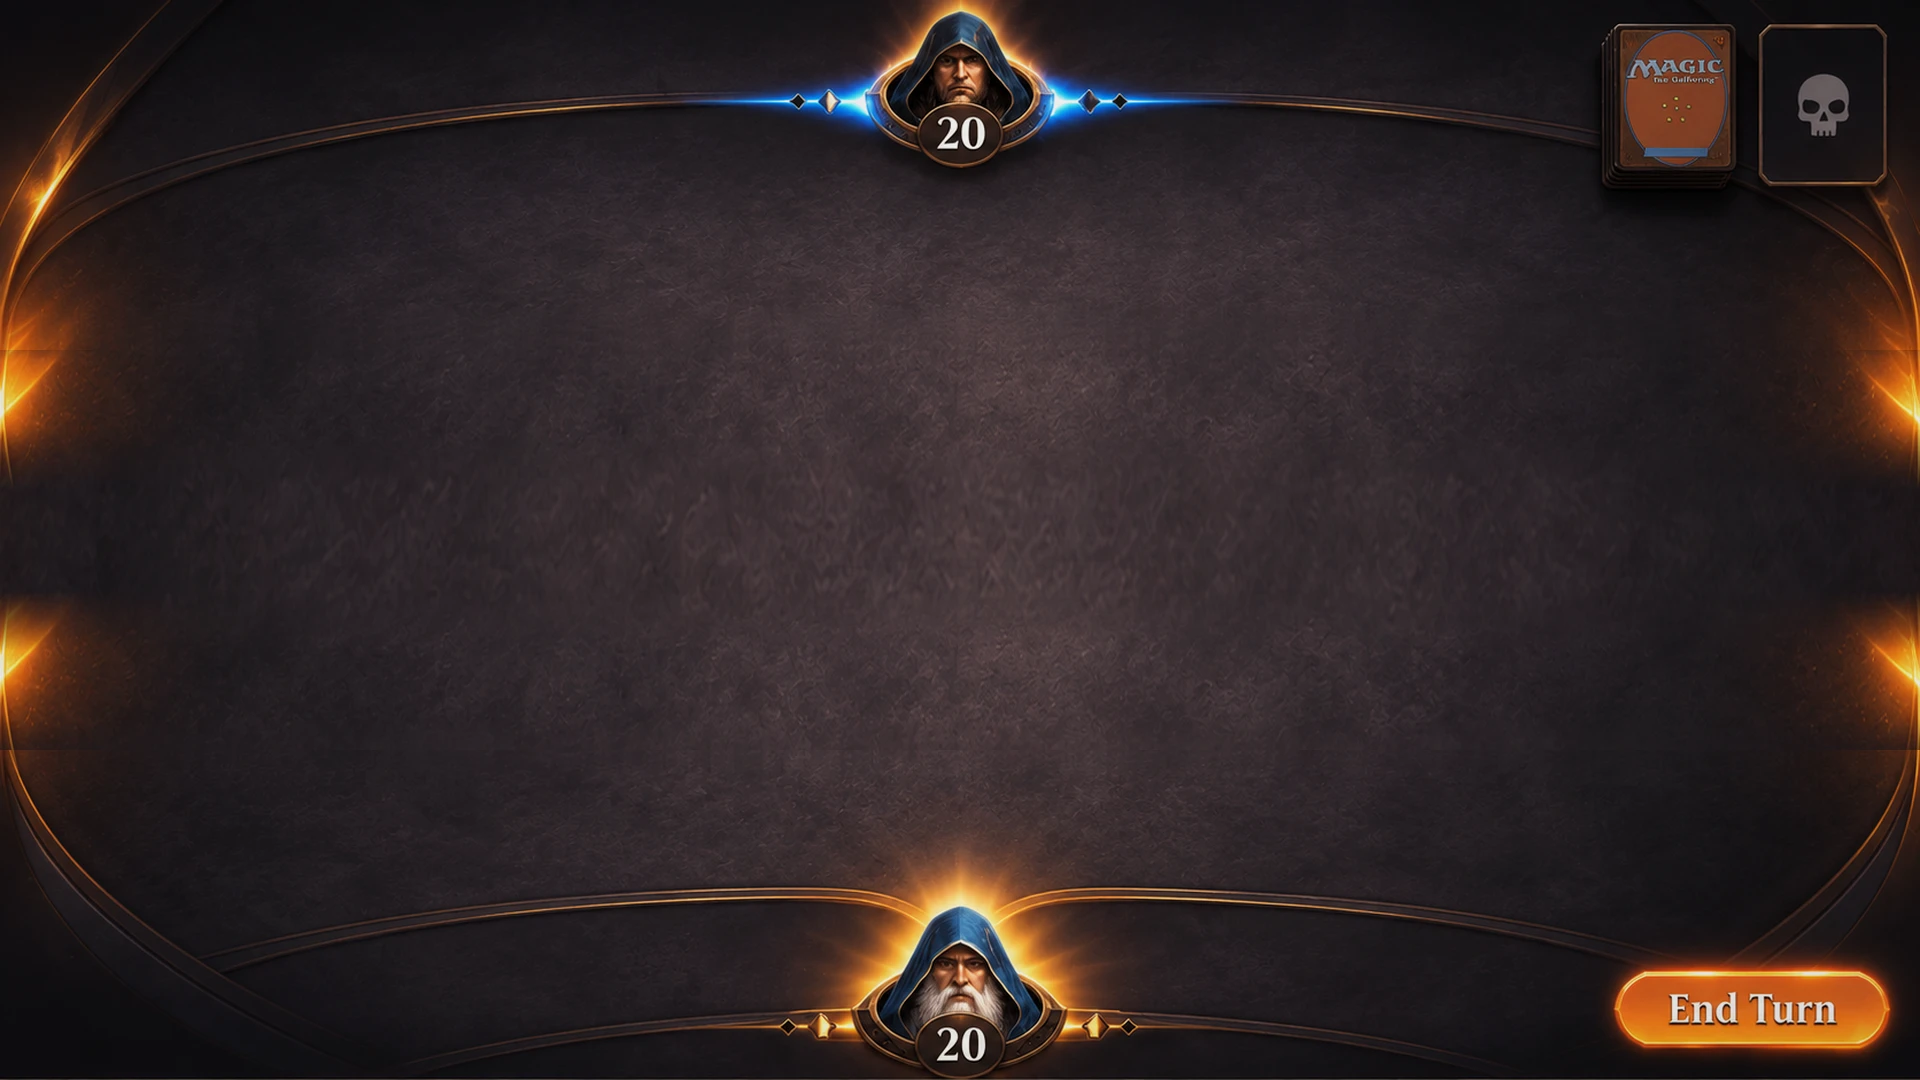
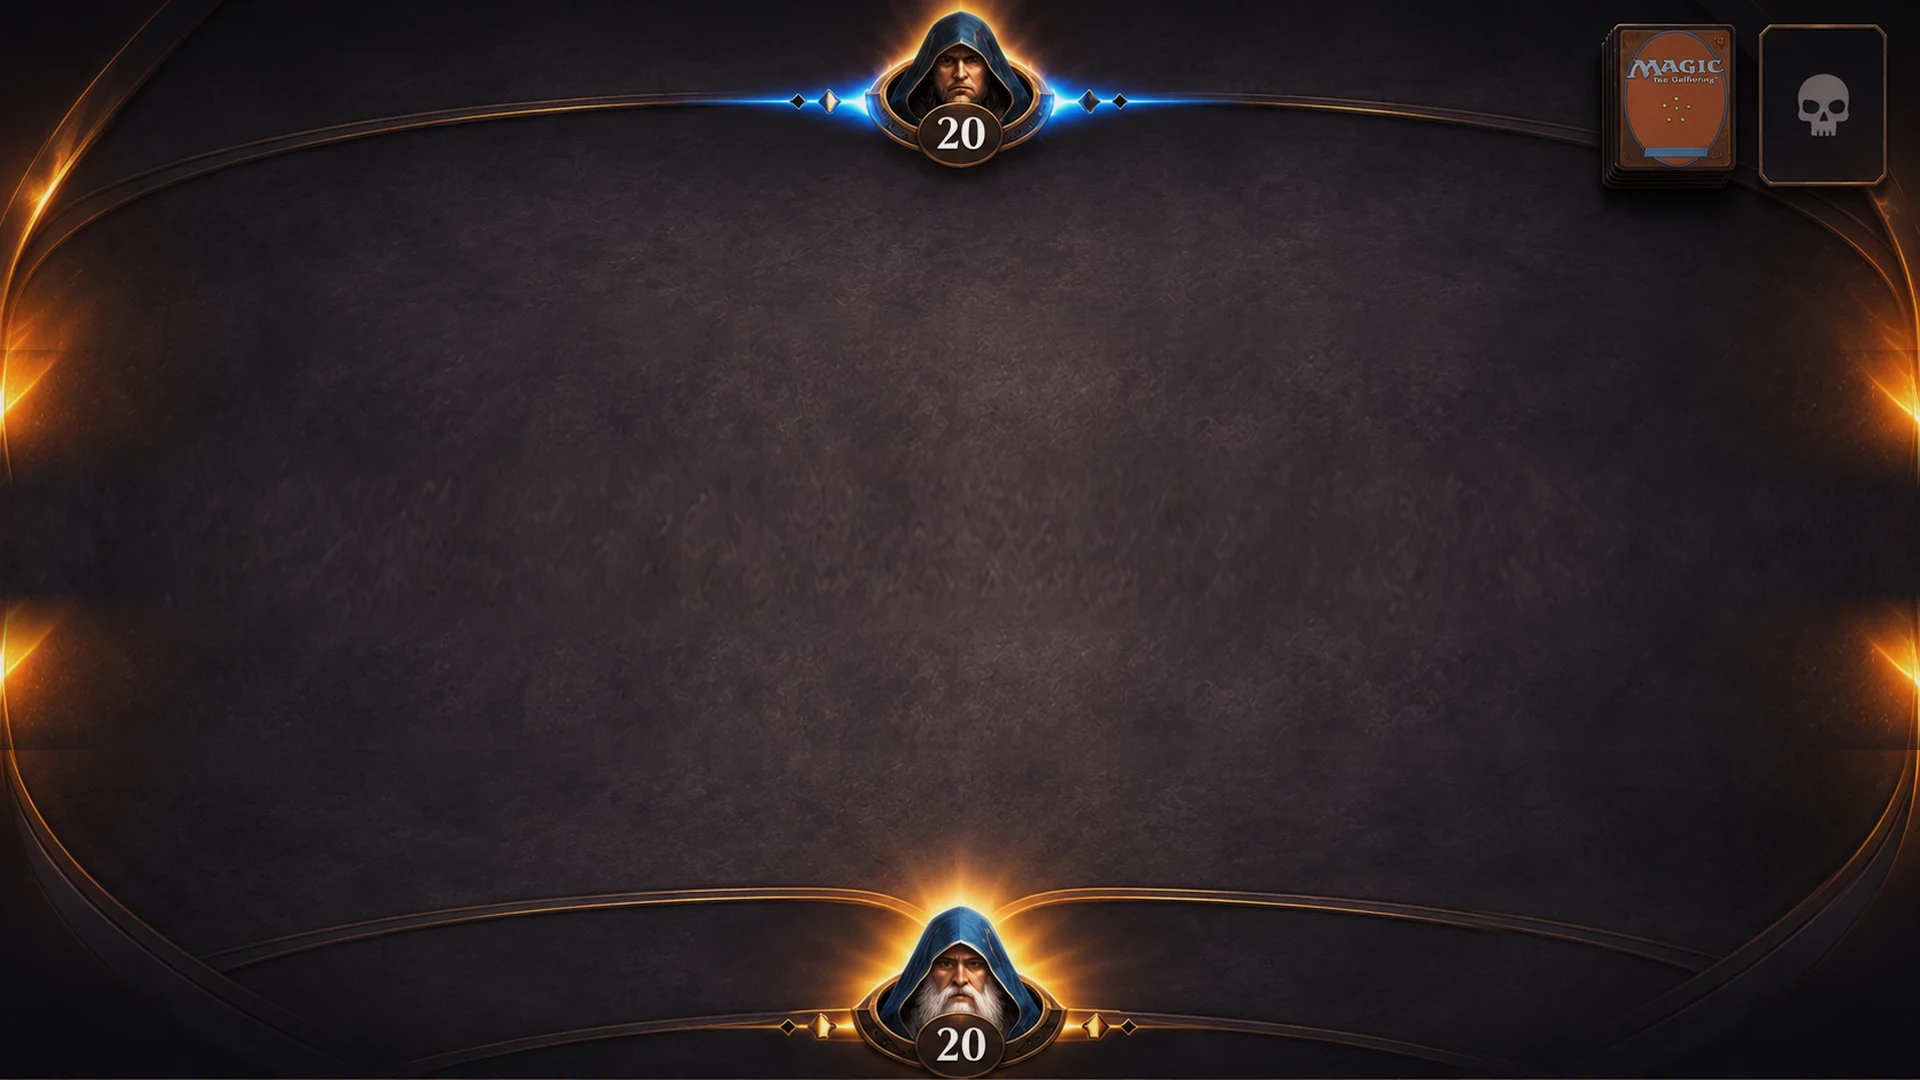
play: MTG Classic+ build 20261116022551, Arena pass on the board
- Tapped permanents tilt and dim instead of lying sideways; attackers stay readable
- Desktop board art: remove the End Turn button baked into the background,
  which showed through behind the real action button
- Desktop: my lands stop before the library pile and overlap when there are many
- Phone: phase list on a dark plate so it reads on bright playmats
- Log wording: You win, You play, You cast (was You wins, You plays)

Overrides live in css/arena.css, loaded last.

Claude-Session: https://claude.ai/code/session_01Bmq39WcKcKondK5a7UYszx

Changed region(s): [[0.8125, 0.8556, 1.0, 1.0]]

diff --git a/play-7p757dmqi9/mtg/js/ui.js b/play-7p757dmqi9/mtg/js/ui.js
@@ -1,23 +1,23 @@
-import { Game, parseCost, makeRng } from './engine.js?v=20261115163807';
-import { decideStop } from './autopass.js?v=20261115163807';
-import { aiAct } from './ai.js?v=20261115163807';
-import { EFFECTS, abilitiesOf } from './cards.js?v=20261115163807';
-import { buildDeck, buildDeckFrom, indexCards, DECK_LISTS, coverage } from './decks.js?v=20261115163807';
-import { initMenu, showApp, hideApp, costHtml, myDecks, myDeckCounts, setMyDeck } from './menu.js?v=20261115163807';
-import { askConfirm, askNumber, askPick, modal, askName, askDivide } from './dialog.js?v=20261115163807';
-import * as FX from './fx.js?v=20261115163807';
-import * as ST from './settings.js?v=20261115163807';
-import sfx from './sfx.js?v=20261115163807';
-import * as SC from './screens.js?v=20261115163807';
-import * as AI from './ai.js?v=20261115163807';
-import * as DK from './decks.js?v=20261115163807';
-import * as AN from './anim.js?v=20261115163807';
-import * as SX from './anim/status.js?v=20261115163807';
-import * as ZN from './anim/zones.js?v=20261115163807';
-import { tileHtml } from './decktile.js?v=20261115163807';
+import { Game, parseCost, makeRng } from './engine.js?v=20261116022551';
+import { decideStop } from './autopass.js?v=20261116022551';
+import { aiAct } from './ai.js?v=20261116022551';
+import { EFFECTS, abilitiesOf } from './cards.js?v=20261116022551';
+import { buildDeck, buildDeckFrom, indexCards, DECK_LISTS, coverage } from './decks.js?v=20261116022551';
+import { initMenu, showApp, hideApp, costHtml, myDecks, myDeckCounts, setMyDeck } from './menu.js?v=20261116022551';
+import { askConfirm, askNumber, askPick, modal, askName, askDivide } from './dialog.js?v=20261116022551';
+import * as FX from './fx.js?v=20261116022551';
+import * as ST from './settings.js?v=20261116022551';
+import sfx from './sfx.js?v=20261116022551';
+import * as SC from './screens.js?v=20261116022551';
+import * as AI from './ai.js?v=20261116022551';
+import * as DK from './decks.js?v=20261116022551';
+import * as AN from './anim.js?v=20261116022551';
+import * as SX from './anim/status.js?v=20261116022551';
+import * as ZN from './anim/zones.js?v=20261116022551';
+import { tileHtml } from './decktile.js?v=20261116022551';
 const EDLABEL = (id) => (DK.EDITIONS || []).find((e) => e.id === id)?.label || { all: 'All Editions', LEA: 'Alpha', LEB: 'Beta', '2ED': 'Unlimited', ARN: 'Arabian Nights', ATQ: 'Antiquities', LEG: 'Legends' }[id] || id;
-import * as TG from './anim/targeting.js?v=20261115163807';
-import * as AMB from './anim/ambient.js?v=20261115163807';
+import * as TG from './anim/targeting.js?v=20261116022551';
+import * as AMB from './anim/ambient.js?v=20261116022551';
 AMB.init({ me: 0 });
 
 // animation speed setting (Fast/Normal/Slow, minimal under prefers-reduced-motion): scales every WAAPI duration/delay
@@ -237,8 +237,12 @@ function resumeGame() {
   } catch (e) { console.warn('resume failed', e); clearSave(); g = null; window.g = null; showApp(); }
 }
 // ---------- game log drawer ----------
+// The engine logs "<name> <verb>s ..."; for the player named You that reads "You wins". Conjugate at display time.
+const YOU_IRREG = { is: 'are', has: 'have', does: 'do', goes: 'go', passes: 'pass', taps: 'tap', untaps: 'untap', discards: 'discard', misses: 'miss', searches: 'search', loses: 'lose', chooses: 'choose', reaches: 'reach', watches: 'watch' };
+const youVerb = (v) => YOU_IRREG[v] || (/(ss|sh|ch|x|z|o)es$/.test(v) ? v.slice(0, -2) : /ies$/.test(v) ? v.slice(0, -3) + 'y' : v.slice(0, -1));
+const youSay = (t) => String(t ?? '').replace(/(^|[.:] )You ([a-z]+s)\b([^.]*)/g, (m, a, v, rest) => `${a}You ${youVerb(v)}${rest.replace(/ and (plays|draws|loses|gains|discards|puts|takes|casts|sacrifices|taps|untaps|shuffles|keeps|returns|destroys|reveals)\b/g, (x, w) => ` and ${youVerb(w)}`)}`);
 let logOpen = false;
-function logLines() { const L = g?.logEvents; if (Array.isArray(L) && L.length) return L.map((x) => (typeof x === 'string' ? x : x.text || x.msg || x.message || '')); return g?.log || []; }
+function logLines() { const L = g?.logEvents; if (Array.isArray(L) && L.length) return L.map((x) => youSay(typeof x === 'string' ? x : x.text || x.msg || x.message || '')); return g?.log || []; }
 let nameRe = null;
 function linkify(t) {
   if (!nameRe) { const ns = Object.keys(byName || {}).sort((a, b) => b.length - a.length).map((n) => n.replace(/[.*+?^${}()|[\]\\]/g, '\\$&')); nameRe = ns.length ? new RegExp('(' + ns.join('|') + ')', 'g') : /$^/; }
@@ -249,8 +253,8 @@ function renderLog() {
   const ev = g?.logEvents; let html = '';
   if (Array.isArray(ev) && ev.length && typeof ev[0] === 'object') {
     let turn = null;
-    for (const x of ev.slice(-300)) { if (x.turn !== turn) { turn = x.turn; html += `<div class="lturn">Turn ${turn}${x.player != null && x.kind === 'turn' ? ` · ${x.player === ME ? 'You' : 'Opponent'}` : ''}</div>`; } if (x.kind === 'turn') continue; html += `<div class="lk-${x.kind} lp${x.player ?? ''}">${linkify(x.text || '')}</div>`; }
-  } else html = logLines().slice(-120).map((l) => `<div>${linkify(l)}</div>`).join('');
+    for (const x of ev.slice(-300)) { if (x.turn !== turn) { turn = x.turn; html += `<div class="lturn">Turn ${turn}${x.player != null && x.kind === 'turn' ? ` · ${x.player === ME ? 'You' : 'Opponent'}` : ''}</div>`; } if (x.kind === 'turn') continue; html += `<div class="lk-${x.kind} lp${x.player ?? ''}">${linkify(youSay(x.text || ''))}</div>`; }
+  } else html = logLines().slice(-120).map((l) => `<div>${linkify(youSay(l))}</div>`).join('');
   if (ll.dataset.h !== html) { ll.dataset.h = html; ll.innerHTML = html; ll.scrollTop = ll.scrollHeight; }
 }
 function closeLog() { logOpen = false; $('logdrawer')?.classList.remove('on'); }
@@ -386,7 +390,7 @@ function renderRaw() {
   const curPh = PHASES.findIndex((p) => p[2].includes(g.step)); $('stage').classList.toggle('lowme', g.players[ME].life <= 5 && !g.winner); $('stage').classList.toggle('lowopp', g.players[1].life <= 5 && !g.winner);
   setHtml('phases', PHASES.map((p, i) => `<div data-ph="${p[0]}" class="${i === curPh ? 'on' : i < curPh ? 'done' : ''} ${holdPh === p[0] ? 'hold' : ''}">${p[1]}</div>`).join(''));
   $('turnno').textContent = g.turn; phaseMark();
-  $('log').innerHTML = g.log.slice(-7).map((l) => `<div>${l}</div>`).join('');
+  $('log').innerHTML = g.log.slice(-7).map((l) => `<div>${youSay(l)}</div>`).join('');
   renderStack();
   decorate();
   buttons();

diff --git a/play-7p757dmqi9/mtg/index.html b/play-7p757dmqi9/mtg/index.html
@@ -4,12 +4,13 @@
 <meta charset="utf-8">
 <title>MTG Classic+</title>
 <meta name="viewport" content="width=device-width, initial-scale=1, viewport-fit=cover, user-scalable=no">
-<link rel="stylesheet" href="css/style.css?v=20261115163807">
-<link rel="stylesheet" href="css/menu.css?v=20261115163807">
-<link rel="stylesheet" href="css/anim_zones.css?v=20261115163807">
-<link rel="stylesheet" href="css/anim_status.css?v=20261115163807">
-<link rel="stylesheet" href="css/anim_ambient.css?v=20261115163807">
-<link rel="stylesheet" href="css/plates.css?v=20261115163807">
+<link rel="stylesheet" href="css/style.css?v=20261116022551">
+<link rel="stylesheet" href="css/menu.css?v=20261116022551">
+<link rel="stylesheet" href="css/anim_zones.css?v=20261116022551">
+<link rel="stylesheet" href="css/anim_status.css?v=20261116022551">
+<link rel="stylesheet" href="css/anim_ambient.css?v=20261116022551">
+<link rel="stylesheet" href="css/plates.css?v=20261116022551">
+<link rel="stylesheet" href="css/arena.css?v=20261116022551">
 <meta name="robots" content="noindex,nofollow">
 <meta name="apple-mobile-web-app-capable" content="yes"><meta name="mobile-web-app-capable" content="yes">
 <meta name="apple-mobile-web-app-status-bar-style" content="black-translucent"><meta name="apple-mobile-web-app-title" content="MTG Classic+">
@@ -69,7 +70,7 @@
   <div id="over" hidden></div>
   <div id="rotate"><div class="rbox"><svg viewBox="0 0 48 48" width="64" height="64"><rect x="14" y="4" width="20" height="40" rx="4" fill="none" stroke="currentColor" stroke-width="2.5"/><path d="M40 24a16 16 0 0 0-8-13.8M8 24a16 16 0 0 0 8 13.8" fill="none" stroke="currentColor" stroke-width="2.5"/></svg><p>Rotate your device</p><small>The board is built for landscape.</small><button id="rotate-go">Play anyway</button></div></div>
 </div>
-<script type="module" src="js/ui.js?v=20261115163807"></script>
-<script>if('serviceWorker' in navigator)addEventListener('load',()=>navigator.serviceWorker.register('sw.js'));window.BUILD='20261115163807';</script>
+<script type="module" src="js/ui.js?v=20261116022551"></script>
+<script>if('serviceWorker' in navigator)addEventListener('load',()=>navigator.serviceWorker.register('sw.js'));window.BUILD='20261116022551';</script>
 </body>
 </html>

diff --git a/play-7p757dmqi9/mtg/css/arena.css b/play-7p757dmqi9/mtg/css/arena.css
@@ -1,0 +1,33 @@
+/* Arena pass (2026-11-16). Loaded last; overrides only. Hand-written, not generated. */
+
+/* 1. Tapped permanents tilt and dim, as in Arena, instead of lying on their side.
+      The card stays readable, its power/toughness badge stays upright and rows stay compact. */
+.card.tapped{transform:rotate(14deg);margin:0 calc(var(--cw)*.05)}
+.card.tapped img{filter:brightness(.74) saturate(.85)}
+.card.tapped .sxcnt{transform:none}
+.card.tapped.attacking{transform:translateY(-30%) rotate(14deg)}
+#field-opp .card.attacking.tapped{transform:translateY(30%) rotate(14deg)}
+.card.tapped.attacking img{filter:none}
+#field-me .card.selected.tapped{transform:translateY(-10%) rotate(14deg)}
+html.phone .card.tapped{margin:0 calc(var(--cw)*.05)}
+html.phone .card.tapped.attacking{transform:translateY(-12%) rotate(14deg)}
+html.phone #field-opp .card.attacking.tapped{transform:translateY(12%) rotate(14deg)}
+html.phone .lands .card.tapped{margin:0 calc(var(--cw)*-.32) 0 0}
+
+/* 2. Desktop: my lands stop short of the library pile and overlap like an Arena land stack once there are many. */
+html:not(.phone) #field-me-lands{right:17.5%;flex-wrap:nowrap}
+html:not(.phone) #field-me-lands:has(>:nth-child(5)) .card{margin-right:calc(var(--cw)*-.38)}
+html:not(.phone) #field-me-lands:has(>:nth-child(8)) .card{margin-right:calc(var(--cw)*-.6)}
+html:not(.phone) #field-me-lands:has(>:nth-child(12)) .card{margin-right:calc(var(--cw)*-.74)}
+html:not(.phone) #field-me-lands .card:hover{z-index:5;transform:translateY(-6%)}
+html:not(.phone) #field-me-lands .card.tapped:hover{transform:translateY(-6%) rotate(14deg)}
+
+/* 3. Phone: the phase list sits on a dark plate so it reads on bright playmats. */
+html.phone #phases{background:linear-gradient(90deg,#0b0708d9,#0b0708b3);border:1px solid #f3c97833;border-radius:10px;padding:.8cqh 1.2cqh .8cqh .6cqh;box-shadow:0 2px 10px #0008}
+html.phone #phases div{color:#aeb6d2}
+html.phone #phases div.done{color:#cfd5ea}
+html.phone #phases div.on{color:#ffcf94}
+
+/* 4. Running log: a soft plate behind the text and a brighter newest line. */
+#log{text-shadow:0 1px 2px #000,0 0 6px #000c}
+#log div:last-child{color:#f1e7c8}

diff --git a/play-7p757dmqi9/mtg/js/cards.js b/play-7p757dmqi9/mtg/js/cards.js
@@ -38,17 +38,17 @@ const TRIGGERS_BASE = {
   'Hypnotic Specter': { onDamagePlayer: (g, perm, target) => g.discardRandom(target.id) },
 };
 
-import * as white from './cards/white.js?v=20261115163807';
-import * as blue from './cards/blue.js?v=20261115163807';
-import * as black from './cards/black.js?v=20261115163807';
-import * as red from './cards/red.js?v=20261115163807';
-import * as green from './cards/green.js?v=20261115163807';
-import * as artifacts from './cards/artifacts.js?v=20261115163807';
-import * as lands from './cards/lands.js?v=20261115163807';
-import * as enchantments from './cards/enchantments.js?v=20261115163807';
-import * as goldA from './cards/gold_a.js?v=20261115163807';
-import * as goldB from './cards/gold_b.js?v=20261115163807';
-import * as artifactsB from './cards/artifacts_b.js?v=20261115163807';
+import * as white from './cards/white.js?v=20261116022551';
+import * as blue from './cards/blue.js?v=20261116022551';
+import * as black from './cards/black.js?v=20261116022551';
+import * as red from './cards/red.js?v=20261116022551';
+import * as green from './cards/green.js?v=20261116022551';
+import * as artifacts from './cards/artifacts.js?v=20261116022551';
+import * as lands from './cards/lands.js?v=20261116022551';
+import * as enchantments from './cards/enchantments.js?v=20261116022551';
+import * as goldA from './cards/gold_a.js?v=20261116022551';
+import * as goldB from './cards/gold_b.js?v=20261116022551';
+import * as artifactsB from './cards/artifacts_b.js?v=20261116022551';
 
 // enchantments first: a colour module that defines the same card wins
 const MODULES = [enchantments, white, blue, black, red, green, artifacts, lands, goldA, goldB, artifactsB];

diff --git a/play-7p757dmqi9/mtg/js/anim.js b/play-7p757dmqi9/mtg/js/anim.js
@@ -1,6 +1,6 @@
 // Arena-parity animation helpers (DOM/WAAPI only, no assets). Every effect is skipped when window.__fxOff is set
 // (reduced motion / speed Off); durations and delays are scaled globally by the Element.animate wrapper in ui.js.
-import * as FX from './fx.js?v=20261115163807';
+import * as FX from './fx.js?v=20261116022551';
 const NS = 'http://www.w3.org/2000/svg';
 const rnd = (a, b) => a + Math.random() * (b - a);
 const off = () => !!window.__fxOff;
@@ -20,4 +20,4 @@ export function floatText(x, y, text, color = '#7dff9a') {
   if (off()) return; const el = sprite('ftxt', { left: x + 'px', top: y + 'px', color, zIndex: 246, font: '700 26px Georgia', textShadow: '0 0 10px #000,0 0 14px ' + color, transform: 'translate(-50%,-50%)' }, text);
   fin(el.animate([{ opacity: 0, transform: 'translate(-50%,-30%) scale(.6)' }, { opacity: 1, offset: 0.2, transform: 'translate(-50%,-80%) scale(1.1)' }, { opacity: 0, transform: 'translate(-50%,-190%) scale(1)' }], { duration: 1100, easing: 'ease-out', fill: 'forwards' }), el);
 }
-export { shatter, implode, drainStream } from './anim/status.js?v=20261115163807';
+export { shatter, implode, drainStream } from './anim/status.js?v=20261116022551';

diff --git a/play-7p757dmqi9/mtg/js/menu.js b/play-7p757dmqi9/mtg/js/menu.js
@@ -1,9 +1,9 @@
-import { isImplemented } from './cards.js?v=20261115163807';
-import { DECK_LISTS, DECK_META, copyLimit as rawLimit, RESTRICTED, isLegal, deckGroup } from './decks.js?v=20261115163807';
-import * as DKN from './decks.js?v=20261115163807';
-import { tileHtml, colorsOf } from './decktile.js?v=20261115163807';
-import * as ST from './settings.js?v=20261115163807';
-import { askConfirm, askText, modal } from './dialog.js?v=20261115163807';
+import { isImplemented } from './cards.js?v=20261116022551';
+import { DECK_LISTS, DECK_META, copyLimit as rawLimit, RESTRICTED, isLegal, deckGroup } from './decks.js?v=20261116022551';
+import * as DKN from './decks.js?v=20261116022551';
+import { tileHtml, colorsOf } from './decktile.js?v=20261116022551';
+import * as ST from './settings.js?v=20261116022551';
+import { askConfirm, askText, modal } from './dialog.js?v=20261116022551';
 
 const $ = (s, r = document) => r.querySelector(s);
 const esc = (t) => String(t ?? '').replace(/[&<>"]/g, (m) => ({ '&': '&amp;', '<': '&lt;', '>': '&gt;', '"': '&quot;' }[m]));

diff --git a/play-7p757dmqi9/mtg/js/anim/targeting.js b/play-7p757dmqi9/mtg/js/anim/targeting.js
@@ -5,9 +5,9 @@
 //  - stack fan: depth, order badges, FLIP reflow, resolve flash
 // DOM/SVG/WAAPI only. Informational arrows stay visible (static) under reduced motion / speed Off; every movement is skipped.
 // Element.animate is globally time-scaled in ui.js, so WAAPI durations here are the designed ones; setTimeout delays use animScale().
-import * as FX from '../fx.js?v=20261115163807';
-import * as ST from '../settings.js?v=20261115163807';
-import * as AN from '../anim.js?v=20261115163807';
+import * as FX from '../fx.js?v=20261116022551';
+import * as ST from '../settings.js?v=20261116022551';
+import * as AN from '../anim.js?v=20261116022551';
 const NS = 'http://www.w3.org/2000/svg';
 const off = () => !!window.__fxOff;
 const C = { mine: '#7fd0ff', opp: '#ff9c7a', ok: '#7dff9a', neutral: '#ffcf94', bad: '#ff4a3a', tether: '#ffd27a' };

diff --git a/play-7p757dmqi9/mtg/js/anim/ambient.js b/play-7p757dmqi9/mtg/js/anim/ambient.js
@@ -2,9 +2,9 @@
 // Exports init(ctx) and onEvents(evs) plus refresh(), stop(), emote(text), toss(won), roll(sides, value), endSequence(win, avatar).
 // Everything is skipped when window.__fxOff is set (reduced motion / speed Off); WAAPI durations are scaled by the
 // global Element.animate wrapper in ui.js, CSS animations read --as (animScale) set below. See docs/ANIMATIONS.md.
-import * as FX from '../fx.js?v=20261115163807';
-import * as ST from '../settings.js?v=20261115163807';
-import * as AN from '../anim.js?v=20261115163807';
+import * as FX from '../fx.js?v=20261116022551';
+import * as ST from '../settings.js?v=20261116022551';
+import * as AN from '../anim.js?v=20261116022551';
 
 const rnd = (a, b) => a + Math.random() * (b - a);
 const off = () => !!window.__fxOff;

diff --git a/play-7p757dmqi9/mtg/js/ai.js b/play-7p757dmqi9/mtg/js/ai.js
@@ -1,8 +1,8 @@
 // Computer opponent. Generic: card use is driven by the `ai` hint of EFFECTS / ABILITIES entries
 // (see docs/CARD_MODULE_CONTRACT.md); when a hint is missing it is inferred from the Oracle text.
 // Contract: every aiAct(g, pid) call changes the game state or returns false (never loops silently).
-import { EFFECTS, abilitiesOf } from './cards.js?v=20261115163807';
-import { parseCost } from './engine.js?v=20261115163807';
+import { EFFECTS, abilitiesOf } from './cards.js?v=20261116022551';
+import { parseCost } from './engine.js?v=20261116022551';
 
 export const LEVELS = ['easy', 'normal', 'hard'];
 // Easy is deliberately weak (casual player should win most games): probabilities per decision. Never info-cheats, never illegal.

diff --git a/play-7p757dmqi9/mtg/js/anim/status.js b/play-7p757dmqi9/mtg/js/anim/status.js
@@ -3,8 +3,8 @@
 // end-of-turn damage heal-off. DOM/WAAPI only, no assets. Everything visual is skipped when window.__fxOff is set;
 // Element.animate durations are already scaled by the wrapper in ui.js, timeouts use ST.animScale() explicitly.
 // Hooks in ui.js: init, onEvents, afterRender, decoPT, reset, dieStep, batchSize, implode, shatter, lifeGain, lifeShift.
-import * as FX from '../fx.js?v=20261115163807';
-import * as ST from '../settings.js?v=20261115163807';
+import * as FX from '../fx.js?v=20261116022551';
+import * as ST from '../settings.js?v=20261116022551';
 const NS = 'http://www.w3.org/2000/svg';
 const rnd = (a, b) => a + Math.random() * (b - a);
 const off = () => !!window.__fxOff;

diff --git a/play-7p757dmqi9/mtg/js/anim/zones.js b/play-7p757dmqi9/mtg/js/anim/zones.js
@@ -1,7 +1,7 @@
 // Priority A: card motion between zones (draw, mill, discard, resolve, bounce, reanimate, return-to-library, shuffle,
 // pile pulses) and the untap stagger. Everything is skipped when window.__fxOff is set; durations are scaled by the
 // global Element.animate wrapper in ui.js. See docs/ANIMATIONS.md.
-import * as FX from '../fx.js?v=20261115163807';
+import * as FX from '../fx.js?v=20261116022551';
 const rnd = (a, b) => a + Math.random() * (b - a);
 const off = () => !!window.__fxOff;
 const ctr = (r) => [r.left + r.width / 2, r.top + r.height / 2];

diff --git a/play-7p757dmqi9/mtg/js/cards/blue.js b/play-7p757dmqi9/mtg/js/cards/blue.js
@@ -174,8 +174,8 @@ export const IMPLEMENTED = [
   ...Object.keys(EFFECTS), ...Object.keys(ABILITIES), ...Object.keys(TRIGGERS),
 ];
 
-import { auraSpecOf } from '../cards.js?v=20261115163807';
-import { parseCost as parseManaCost } from '../engine.js?v=20261115163807';
+import { auraSpecOf } from '../cards.js?v=20261116022551';
+import { parseCost as parseManaCost } from '../engine.js?v=20261116022551';
 
 // ===================== Legends (mono-blue) =====================
 const permSpec = (test) => ({ kind: 'perm', test });
